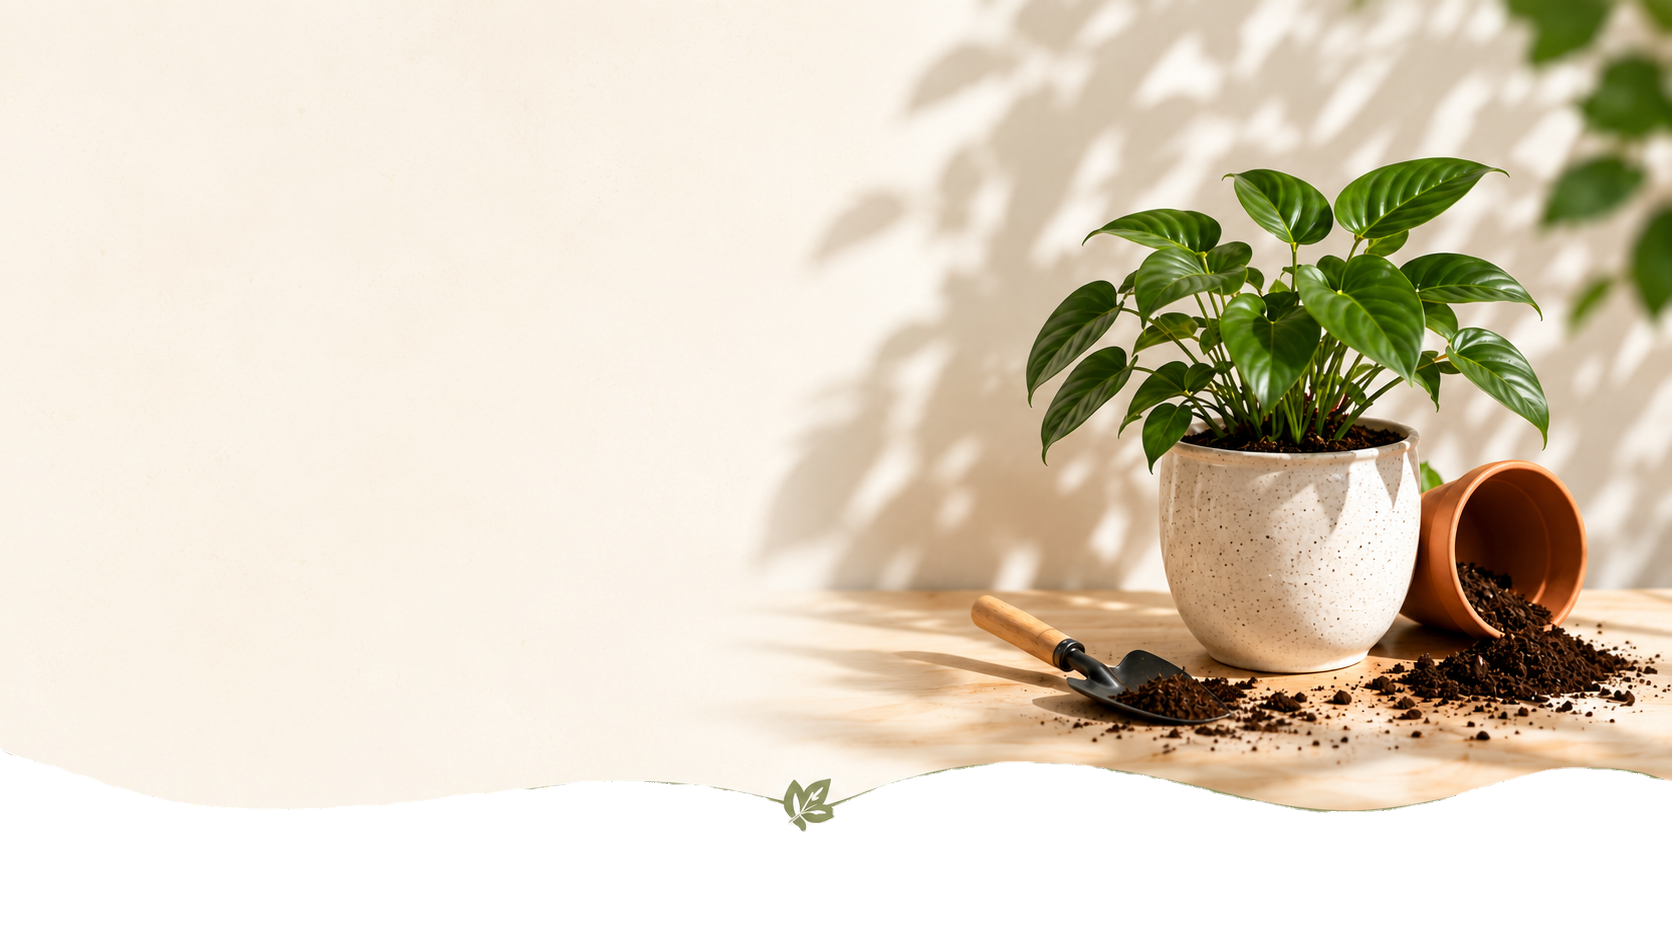
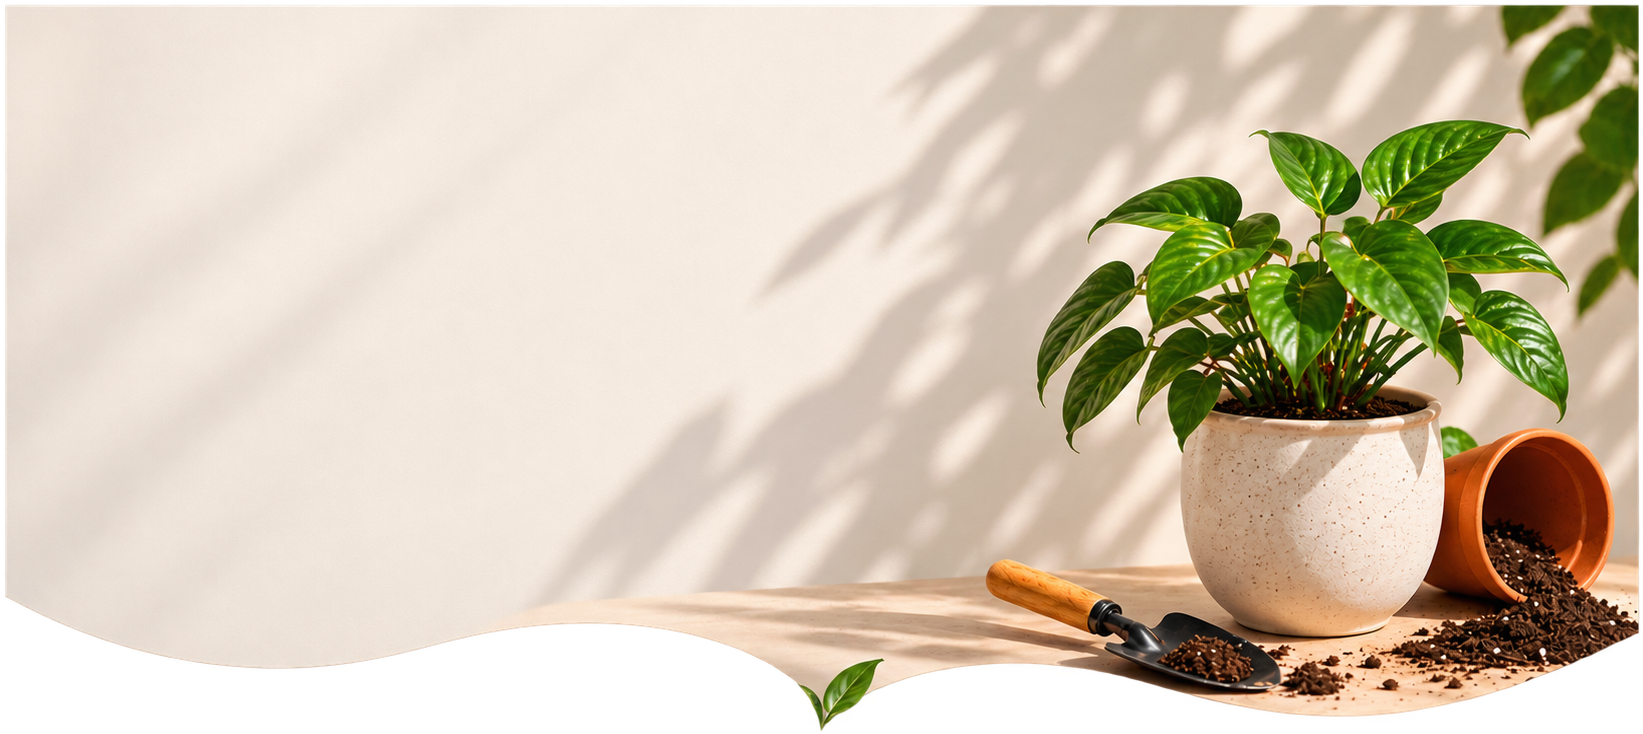
feat: add responsive repotting guide hero section

diff --git a/pages/repotting.html b/pages/repotting.html
@@ -25,7 +25,124 @@
     <!-- ==================== Main Content ==================== -->
     <main>
       <!-- ==================== Hero Section ==================== -->
-      <section></section>
+      <section
+        class="relative h-150 w-full max-sm:h-75 sm:h-87.5 md:h-105 lg:h-147.5 xl:h-162.5"
+      >
+        <a
+          href="/"
+          class="absolute top-4 left-4 z-99 flex items-center gap-2 rounded-full bg-[#2f4f3e] px-3 py-2 text-xs text-white duration-300 hover:bg-[#121f1a] max-sm:text-[10px] sm:top-5 sm:left-7"
+        >
+          <span>بازگشت به خانه</span>
+          <i class="fa-solid fa-arrow-left"></i>
+        </a>
+        <div class="flex flex-row-reverse items-center max-sm:justify-center">
+          <!-- Image -->
+          <div
+            class="absolute -top-20 bottom-0 z-0 w-full max-sm:top-0 sm:-top-4 md:-top-8 lg:-top-12 xl:-top-16"
+          >
+            <img
+              src="../assets/image/care-tips/repotting/repotting-hero.png"
+              alt="تعویض گلدان گیاه"
+              class="h-full w-full"
+            />
+          </div>
+
+          <!-- Content -->
+          <div
+            class="z-10 mt-14 flex w-1/2 flex-col items-start px-8 py-8 text-right max-sm:items-center max-sm:rounded-xl max-sm:bg-white/30 max-sm:px-3 max-sm:py-3 max-sm:backdrop-blur-xl min-[376px]:w-90 sm:mt-2 sm:w-[58%] sm:px-2 md:mt-10 md:w-[55%] md:gap-1 md:px-5 lg:w-[55%] lg:px-14 xl:mt-13 xl:w-[52%] xl:gap-3"
+          >
+            <!-- Back Button -->
+
+            <!-- Category -->
+            <div
+              class="flex items-center justify-center gap-1 rounded-full bg-white/70 py-1.5 text-[#2f4f3e] max-sm:mb-2.5 px-3 sm:py-1 md:px-3.5 md:py-2"
+            >
+              <svg
+                class="h-5 w-5 max-sm:h-3 max-sm:w-3 sm:h-3.5 sm:w-3.5 md:h-4.5 md:w-4.5"
+                xmlns="http://www.w3.org/2000/svg"
+                viewBox="0 0 672 672"
+              >
+                <!-- SVG PATH اصلی خودت دقیقاً اینجا قرار میگیرد -->
+                <path
+                  fill="currentColor"
+                  stroke="currentColor"
+                  stroke-width="25"
+                  d="M376.8 66.1C407.9 63.9 438.7 68.1 469.6 70.1C500.5 72.5 530.2 77.6 559 72.5C563.2 71.8 567.2 71 571 70.3C572.8 69.8 574.6 69.3 576.5 68.8L587.2 66.4C587.8 66.2 588.4 66.3 589 66.2C591.8 65.5 593.6 65.4 593.7 66.2C597.4 67 600.6 69.2 602.1 72.9L602 73C603.2 75.7 603.3 78.9 602.8 82.1L602.1 88.1L599.4 109.5L593.2 152.3C588.4 180.8 582.8 209.2 575 237.2C559.5 293 535.4 347.8 496.9 392.5C458.8 437.5 406.3 469.2 350.4 486.1C294.5 503.2 235.6 509.2 177.8 506.7C168.1 506.5 158.7 505.6 151.4 504.2L147.8 503.6C142.9 502.7 141.3 501.4 143.8 500.4L159.1 494.2C163 492.6 172 491.7 182 492C210.3 493.9 238.4 490.6 266.5 488.8C280.5 487.4 294.2 484 308 481.7C322 479.9 335.3 475.4 348.6 471C401.9 454.4 451 424 486.7 381.3C522.9 338.8 545.9 286.4 560.8 232.3C568.2 205.1 573.8 177.4 578.4 149.4L584.4 107.3L587.1 86.1L587.6 81.6L587.6 81.5L587.5 81.5L572.3 85C569 85.7 566 86.2 563.2 86.6C561.1 87.1 559.1 87.5 556.9 87.8C525 92.6 493.4 86.2 463.2 84.5L417.5 80.9C402.3 79.1 387 81.1 371.8 81C341.2 80.3 311.4 86.3 281.5 91L238.4 104.2C224.5 109.8 211.4 117.2 197.9 123.6C145.2 153 110.2 206.7 97.2 264.8C93.1 279.2 92.8 294.4 90.8 309.2C91.1 324.2 89.6 339.3 91.8 354.2C93.6 382.9 100.7 411.1 110.5 437.9C112.7 432.8 114.7 427.7 117.1 422.7C138.2 379.3 167.3 339.9 201.9 306.2C201.6 305.6 201.3 305 201.3 304.3C201.1 266.2 200.7 227.9 199.6 189.9C199.6 189.1 199.9 188.3 200.6 187.8C201.3 187.3 202.1 187 202.9 187L211 187.4C213 187.5 214.6 189 214.6 190.8C215.5 225 215.8 259 215.9 293.1C289.8 227.5 383.7 187.3 480.5 171.1C484.6 170.5 488.6 170.2 491.5 170.5C492.9 170.6 494.1 170.9 494.6 171.2C494.6 171.2 495 171.2 494.5 171.4C493.6 171.5 492.2 172.3 493.1 174.4C493.1 174.3 493 174 493.5 174.1C495.7 173.3 495 174.2 495 174.5L494.6 176.4C494 175.9 493.5 175.4 493.2 174.9C493.5 175.6 494.1 176 494.6 176.4L494.5 176.6L494.4 177C494.3 177 494.3 177.1 494.2 177.1C494.3 177.1 494.4 177 494.4 177L493.5 180.7C493.5 180.8 493.3 180.9 493.2 181C493.8 181.5 494.5 181.7 494.8 181.9C495.8 182.2 495.8 182.2 495.7 182.3C495.6 182.1 494.7 183.1 493 181.3C493.1 181.2 493.1 181.1 493.2 181.1C492.8 180.8 492.7 180.2 492.6 179.7C492.6 180.1 492.3 180.5 492.5 180.9C492.7 181.1 492.8 181.2 493 181.4C491.4 183.3 484.7 185.5 476.3 187C432.5 194.8 389.4 208 348.6 226.1L431.1 246.2C431.7 246.4 432.3 246.9 432.5 247.6C432.8 248.3 432.8 249.2 432.5 250L429.9 257.6C429.3 259.5 427.6 260.7 426.1 260.3L330 236.7C329.3 236.5 329 235.9 328.4 235.4C286.7 256.1 247.8 282.2 214.1 314.3C142.4 382 99.8 476.3 87.5 573.8C86.3 581.8 84.9 589.6 83.2 595.7L82.3 598.7C81.1 602.8 79.7 604.1 78.9 601.9L73.6 588.5C72.2 585 72.2 577.1 73.3 568.4C78.7 529.8 88.4 491.6 102.8 455.1C100.4 451.6 97.4 446.1 94.6 439.2C74.8 380 68.6 315.4 84.4 254.2C90.9 223.2 106.4 195 124.1 168.9C134.7 157.3 144.9 144.8 156.9 134.7L176 120.6C182.3 115.8 188.6 111 195.9 108C251.2 77.2 314.9 66.3 376.6 66.1zM495.4 177C495.6 177.2 495.7 177.3 495.2 177C495.3 177 495.3 177 495.4 177zM495 177C494.9 177 494.7 177.1 494.6 177.1L494.6 177L494.7 176.9C494.9 176.9 494.9 176.9 495.1 177zM495.2 177C495.1 177 495.1 177 495 177C495.1 177 495.2 177 495.2 177L495.3 177zM495 176.6C494.9 176.5 494.8 176.4 494.7 176.4L494.7 176.3C494.8 176.4 494.9 176.5 495 176.6z"
+                />
+              </svg>
+
+              <h3
+                class="text-[.75rem] font-medium max-sm:text-[.67rem] md:text-[.8rem]"
+              >
+                راهنمای کامل
+              </h3>
+            </div>
+
+            <!-- Title -->
+            <h1
+              class="text-[42px] leading-[1.55] font-bold text-[#121f1a] max-[376px]:text-[18px] max-sm:text-center min-[376px]:text-[21px] sm:text-[28px] md:text-[32px] lg:text-[36px] xl:text-[40px]"
+            >
+              آموزش تعویض گلدان
+              <br />
+              <span class="text-[#2f4f3e]">به روش صحیح</span>
+            </h1>
+
+            <!-- Description -->
+            <p
+              class="text-md mt-1.5 max-w-105 leading-8 font-medium text-[#242524] max-[376px]:w-60 max-md:max-w-85 max-sm:mt-2 max-sm:leading-6 min-[376px]:text-[12px] sm:text-[11px] sm:leading-6 md:mt-1.5 md:text-[12px] md:leading-7 lg:mt-3 lg:text-[15px] lg:leading-7"
+            >
+              تعویض گلدان یکی از مهمترین کارها برای حفظ سلامت گیاهان است. با
+              رعایت مراحل صحیح، ریشهها فضای کافی برای رشد پیدا میکنند و گیاه
+              شما شادابتر خواهد بود.
+            </p>
+
+            <!-- Meta -->
+            <div
+              class="mt-5 flex items-center gap-8 rounded-full border border-[#DCD8CB] bg-white/60 px-5 py-3 text-[.7rem] text-[#4D514B] backdrop-blur-2xl max-lg:mt-1 max-sm:w-fit max-sm:max-w-full max-sm:gap-3 max-sm:px-3 max-sm:py-2 sm:gap-4 sm:px-3.5 sm:py-2 sm:text-[11px] md:gap-6 md:px-4 md:py-1.5 md:text-[13px] lg:mt-4 lg:py-2.5 lg:text-[15px]"
+            >
+              <div
+                class="flex items-center gap-4 font-medium text-[#2f4f3e] max-sm:gap-2 sm:gap-2 md:gap-3"
+              >
+                <svg
+                  class="h-7 w-7 max-sm:h-3.5 max-sm:w-3.5 sm:h-4 sm:w-4 md:h-6 md:w-6 lg:h-7.5 lg:w-7.5"
+                  xmlns="http://www.w3.org/2000/svg"
+                  viewBox="0 0 672 672"
+                >
+                  <path
+                    fill="currentColor"
+                    stroke="currentColor"
+                    stroke-width="30"
+                    d="M328.5 65.1C329.7 65.2 330.2 65.3 331.1 65.4C340.9 65.4 350.6 65.9 360.4 66.7C360.9 66.7 361.4 66.6 361.9 66.6C362.8 66.7 363.7 66.9 364.6 67C367.2 67.3 369.9 67.3 372.5 67.6C372.7 67.6 372.8 68.1 373 68.2C446 77.6 514.1 118.7 557 178.6C579.7 210 595.7 246.3 602.9 284.4C606.3 303.7 608.5 322.3 607.5 342.8L607.5 342.8C606.5 353.2 605.4 363.5 604.1 373.9C604.5 379 604.2 385.8 602.9 393.3C592.8 458.1 557.8 518.6 506.9 560.1C456.2 602.1 389.5 623.6 323.9 620.6C258.2 618.2 193.5 590.7 146.5 544.3C99.1 498.5 69.5 434.9 64.9 369C64.6 363.6 64.7 358.5 65.2 354.8C65.3 353.9 65.5 353.4 65.6 352.7C62.9 313.3 68.3 273.5 83.2 236.7C118.6 144 208.2 75.1 307.2 65.2C315.2 64.6 322.9 64.7 328.4 65zM312.6 79.5C307.8 80.2 302.5 81 296.6 82.1C250.5 88.7 207 109.5 171.2 138.9C135.8 169 108.2 208.3 93.4 252.5L93.4 252.6C77.9 296.4 76 344.6 85.2 389.9C95.3 435.2 117.2 477.9 149.3 511.5C212.4 579.8 314.5 609.1 403.9 583C493.6 559 566.9 482.6 585.8 391.5C586.9 386 587.9 380.6 588.9 375.3C590.5 362.6 592 349.8 593.2 337C593.1 329.1 592.3 319.1 591.9 310.3L587.6 283.3C579.9 247.6 564.5 213.7 542.8 184.5C500.1 126.4 432 87.3 360 81.7C344.6 80.4 329.1 79.8 313.7 80.6C313.3 80.6 312.9 80.2 312.7 79.6L312.7 79.5zM333.7 139.8L340.3 146C342 147.6 343.1 151.3 343.1 155.5L343.6 302.4L343.7 316C353.8 319.3 361.5 330 358.7 341.8C358.7 341.8 358.5 341.9 358.5 341.9L373.3 351.9L434.1 392.9C435.7 394 437.1 395.4 437.9 396.6C438.7 397.8 438.8 399 438.1 399.6L432.3 405.4C430.9 406.8 426.8 405.9 423 403.4L362.5 362.6L349 353.5C346.7 355.3 344.2 356.7 341.3 357.5C333.6 359.6 324.6 357 319.2 350.9C313.7 344.9 311.8 335.6 314.8 327.8C317.1 321.5 322.4 316.6 328.7 314.3L328.7 299.7L328.3 154.1C328.3 150.1 328.9 146.2 330 143.2L330.5 141.7C331.2 139.6 332.5 138.9 333.6 139.9z"
+                  />
+                </svg>
+
+                <span>زمان مطالعه: ۶ دقیقه</span>
+              </div>
+
+              <span class="h-4 w-px bg-[#D5D1C4] max-sm:h-3"></span>
+
+              <div
+                class="flex items-center gap-4 font-medium text-[#2f4f3e] max-sm:gap-2 sm:gap-2 md:gap-3"
+              >
+                <span>۰۱ شهریور ۱۴۰۵</span>
+
+                <svg
+                  class="h-7 w-7 max-sm:h-3.5 max-sm:w-3.5 sm:h-4 sm:w-4 md:h-6 md:w-6 lg:h-7.5 lg:w-7.5"
+                  xmlns="http://www.w3.org/2000/svg"
+                  viewBox="0 0 672 672"
+                >
+                  <path
+                    fill="currentColor"
+                    stroke="currentColor"
+                    stroke-width="30"
+                    d="M451.3 64.9C458.8 63.9 466.2 63.8 473.7 65C481.1 66.4 489 68 496.6 75.3C498.7 77.8 499.9 81 499.5 83.9C499.7 84.7 500.3 85.3 500.3 86.1C500.8 89.3 500.4 89.9 500.5 91.9L500.4 102L500.2 133.2C500.6 133 501 132.7 501.5 132.7C518 132.5 534.5 132.3 551.4 133.3C559.8 133.9 568.3 134.5 577.8 137.6C582.5 139.3 588.8 143.2 591.4 149.7C593.8 156 593.4 160.8 593.6 165C593.6 165.7 593.2 166.3 592.6 166.8C592.4 166.9 592.2 166.9 592 167C591.9 174.5 591.8 195.4 591.5 229.9L591.6 319.9C591.9 379.9 593.2 439.8 594.4 499.9L594.3 499.8C594.5 514.8 594.7 529.9 594.4 545.1C593.2 560.5 595.2 575.3 586.8 592.6C584.8 596.9 580.1 600.9 575.5 603C570.6 604.9 566.1 605.4 561.9 605.5L539.2 605.7L494.2 605.8L314.2 606.8C254.2 607.1 194.3 608.3 133.8 607.1C126.2 606.9 118.6 606.4 110.9 605.8C102.9 604.5 95.7 605.4 85.3 599C82.7 597.8 80.7 594.2 79.3 590.9C78.6 588.1 78.5 584.9 78.5 582.7L79.3 571.8L79.5 549.3L79.9 459.3C79.8 399.3 79 339.4 77.7 279.4C77.7 277.2 77.6 274.9 77.6 272.7C76.5 272 76.1 271.3 77.2 270.6L77.6 270.3C77.5 266.8 77.5 263.2 77.4 259.7C76.5 259.1 76.2 258.4 77.2 257.8L77.4 257.7C76.9 234.9 76.5 212.1 77 189C77.6 181.2 77.5 173.7 78.9 165.6C79.8 158 81.6 148.7 88.9 140.3C93.3 136.1 98.3 134.3 103.3 133.2C107.6 132.8 112.4 132.4 115.9 132.5L138.4 132.4C148.1 132.4 157.5 132.7 164.2 133.4C165.9 133.5 167.4 133.7 168.6 133.9L168.7 126.3C168.7 122.2 169.4 118.2 170.6 115L171.2 113.5C172 111.4 173.2 110.7 174.3 111.7L180.8 118.2C182.5 119.9 183.5 123.8 183.5 128.2C183.2 156.7 183 175.6 182.9 185C182.8 186.8 185.5 189.6 190.5 191.4C200.3 194.9 213 194.8 223.3 191.9C228.5 190.6 232.7 187.3 232.6 185.7C232.6 185.5 232.7 185.4 232.9 185.1L232.9 182.7L233 178L233.1 168.6L233.7 93.1L233.8 88.4C233.4 87.8 233.7 87.6 233.4 87.2C232.9 86.6 232 85.2 229.9 84.2C226 82.1 220.5 80.8 215 80.3C204.6 79.4 190.5 81.7 186.4 86.5C186.2 87.1 185.4 87.2 185 87.5C184.3 87.7 183.2 88.1 182.4 88C179.8 87.7 177.2 87.1 174.7 85.9C172.5 85.6 172.6 77.6 178.4 73.7C192.2 64.5 206 64.5 219.8 65.8C226.7 66.9 233.7 68.3 240.7 73.3C243.9 75.9 247.8 79.9 248.4 85.4C249.2 90.7 248.6 92.3 248.7 95.9L248.1 171.4L248 180.8L247.9 185.6C247.6 187 247.4 188.6 247 190.1L247.1 195C247.1 196.2 247.2 196.9 247.1 198.4C246.9 200.2 246.5 202 246 203.7C243 210.3 237.8 213.4 233.2 215.8C223.8 219.9 214.4 220.9 205 220.7C195.6 220.1 186.1 219.5 176.3 212.3C173.9 210.5 171.6 207.8 170 204.4C168.7 201.3 168.4 196.3 168.4 195L168.2 182.3C168.2 182.1 168.4 181.9 168.5 181.7C168.6 170.6 168.8 157 169 140.9L166.3 143.7C164.4 145.7 145.7 147.3 123 147.3C115.6 147.5 107.6 146.9 103.3 148.7C99.1 150.2 96.8 154.9 95.2 161.5C92.5 174.8 92.5 189.9 92.2 204.6C92.2 219.5 92.6 234.5 92.9 249.4C95.9 248.7 99.3 248.2 103.4 248.2L576.7 246.6C577 246.6 577.2 246.7 577.5 246.7L577.5 221.1L577.8 176.3C577.7 169.2 578.4 160.2 577.4 156C576.8 154 576.4 153.5 574.6 152.3C573.4 151.6 571.4 151.1 569.6 150.6C563.7 149.1 556.9 148.3 550.1 147.9C534.2 147 517.9 147.1 501.6 147.3C501.3 147.3 501.1 147 500.8 146.9L500.5 182.8L500.5 185.3C500.4 186.1 500.2 187 500 187.9C500 188.1 500.2 188.3 500.2 188.5L500.3 195C500.3 196.2 500.4 196.9 500.3 198.4C500.1 200.2 499.7 202 499.2 203.7C496.2 210.3 491 213.4 486.4 215.8C477 219.9 467.6 220.9 458.2 220.7C448.8 220.1 439.3 219.5 429.5 212.3C427.1 210.5 424.8 207.8 423.2 204.4C421.9 201.3 421.6 196.4 421.6 195L421.5 185.9C421.5 185.5 421.2 185.1 421.2 184.6L421.5 146L285.2 148.3C283.3 148.3 281.5 147.7 280.1 146.6L279.4 146.1C278.4 145.4 278.1 144.1 278.6 143L281.5 136.4C282.2 134.7 284 133.6 286 133.6L421.7 131.2L421.9 104.2C421.9 101.5 422.2 98.9 422.7 96.5L422.7 88.4C422.7 83.1 425.6 76.7 429.4 74C436.9 67.7 444.6 66.2 452 64.9zM576.9 274C575 274.3 573 274.4 570.8 274.4L100.1 275.9C97.6 275.9 95.1 275.7 92.7 275.5C92.8 281.7 92.9 287.8 93 294C94.2 353.7 94.9 413.4 94.9 473.2L94.4 562.8C94.6 569.5 93.8 579.4 93.6 584.7C93.6 585.8 93.7 586.7 94 586.5C93.6 586.8 94.8 587.3 95.4 587.6C97.2 588.3 100.8 589.3 103.9 589.8C117.6 591.9 132.8 591.9 147.5 592.3C206.9 593 266.7 592 326.4 591.7L505.5 590.8L550.3 590.7C557.7 590.5 565.8 591.1 569.7 589.4C573.5 588.1 575.6 584 577.2 577.4L577.2 577.4C581.7 550.4 579.9 519.4 579.7 490C578.5 430.4 577.3 370.6 577.1 310.9L577.1 274.1zM363.3 327.5L381.9 327.6C385.5 327.1 393.1 329.4 395.3 334.5C398.3 340.2 397.7 344.4 397.6 347.9C396.3 362.2 391.6 373.7 387.3 385.7C368.6 432.6 345.3 476.3 320.4 519.7C319.4 521.5 318 523 316.7 523.9C315.4 524.8 314.3 525 313.6 524.3L307.7 518.6C306.2 517.2 306.9 513.2 309.3 509.3C333.4 466.9 356.8 423.2 374.3 378.2C378.3 367.2 382.5 355 382.8 345.2C382.8 342.2 382.6 342.7 382.5 342.5C382.4 342.3 383 342.4 378.8 342.4L360.4 342.3L286.8 341.8C282.8 341.8 278.8 341.1 275.8 340L274.3 339.5C272.2 338.7 271.5 337.4 272.5 336.4L278.8 329.9C280.4 328.2 284.3 327.1 288.5 327.2L363 327.7zM469.9 80.6C458.8 78.8 443.7 81.2 438.6 86.3C438.4 87 437.5 87.1 437 87.4L436.9 87.4C436.8 87.8 436.8 88.4 436.7 89.6L436.7 99.7L436.4 180.9C436.4 181.9 436 182.7 435.5 183.4L435.6 186C436 188 440.5 190.8 445.6 192C451.1 193.5 457.4 194 463.4 193.6C469.4 193.2 475.5 192 480.1 189.7L480.2 189.7C482.5 188.6 484.2 187.1 484.5 186.1C485 185.5 484.6 185.3 485 184.6L485.1 179.5L485.8 98.6L485.9 88.5C485.5 86.8 485.8 86.8 484.3 85.4C481.6 83 475.7 81 469.9 80.3z"
+                  />
+                </svg>
+              </div>
+            </div>
+          </div>
+        </div>
+      </section>
 
       <!-- ==================== Why Repot Section ==================== -->
       <section></section>
@@ -35,7 +152,6 @@
 
       <!-- ==================== Important Tips Section ==================== -->
       <section></section>
-      
     </main>
     <!-- ==================== JavaScript ==================== -->
     <script src="index.js"></script>
